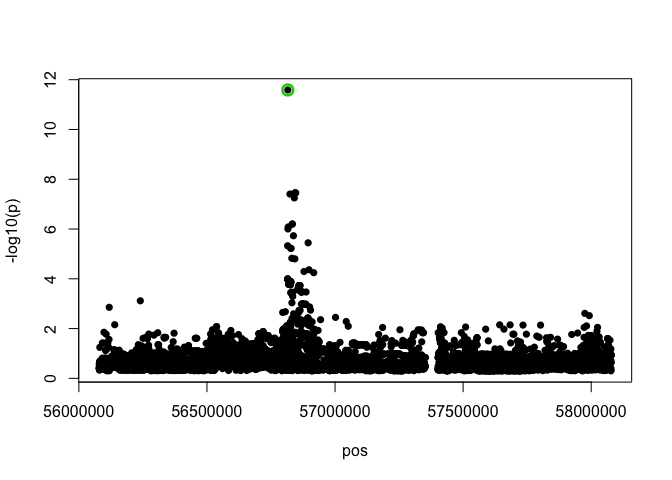
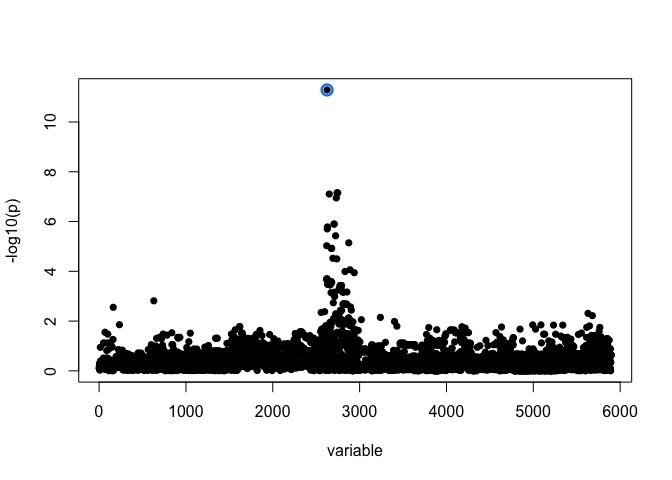
Update fine mapping example

diff --git a/fine_mapping/CEDAR_finemapping_example.md b/fine_mapping/CEDAR_finemapping_example.md
@@ -26,8 +26,7 @@ se
 ## assays(1): counts
 ## rownames(33080): ILMN_1343291 ILMN_1343295 ... ILMN_3311180
 ##   ILMN_3311190
-## rowData names(12): phenotype_id quant_id ... gene_version
-##   phenotype_pos
+## rowData names(12): phenotype_id quant_id ... gene_version phenotype_pos
 ## colnames(2337): CD8IPC010 CD8IPC011 ... CD19IPC066 CD19IPC154
 ## colData names(21): sample_id genotype_id ... smoker included
 ```
@@ -73,8 +72,7 @@ filtered_se
 ## assays(1): counts
 ## rownames(33080): ILMN_1343291 ILMN_1343295 ... ILMN_3311180
 ##   ILMN_3311190
-## rowData names(12): phenotype_id quant_id ... gene_version
-##   phenotype_pos
+## rowData names(12): phenotype_id quant_id ... gene_version phenotype_pos
 ## colnames(205): PLAIPC233 PLAIPC203 ... PLAIPC297 PLAIPC306
 ## colData names(21): sample_id genotype_id ... smoker included
 ```
@@ -87,15 +85,25 @@ Since CEDAR used Illumina HumanHT12_V4 microarray to measure gene expression (in
 ```r
 #Find probe IDs for the CD14 gene
 gene_metadata = rowData(filtered_se) %>% as.data.frame() %>% as.tbl() %>% dplyr::filter(gene_name == "ARHGEF3")
+```
+
+```
+## Warning: `as.tbl()` was deprecated in dplyr 1.0.0.
+## Please use `tibble::as_tibble()` instead.
+## This warning is displayed once every 8 hours.
+## Call `lifecycle::last_lifecycle_warnings()` to see where this warning was generated.
+```
+
+```r
 gene_metadata
 ```
 
 ```
-## # A tibble: 1 x 12
-##   phenotype_id quant_id group_id gene_id chromosome gene_start gene_end
-##   <chr>        <chr>    <chr>    <chr>   <chr>           <int>    <int>
-## 1 ILMN_1781010 ENSG000… ENSG000… ENSG00… 3            56727418 57079329
-## # … with 5 more variables: strand <int>, gene_name <chr>, gene_type <chr>,
+## # A tibble: 1 × 12
+##   phenotype_id quant_id   group_id gene_id chromosome gene_start gene_end strand
+##   <chr>        <chr>      <chr>    <chr>   <chr>           <int>    <int>  <int>
+## 1 ILMN_1781010 ENSG00000… ENSG000… ENSG00… 3            56727418 57079329     -1
+## # … with 4 more variables: gene_name <chr>, gene_type <chr>,
 ## #   gene_version <int>, phenotype_pos <int>
 ```
 Next we can extract this probe from the expression matrix
@@ -156,18 +164,18 @@ standard_genotypes[1:5,1:5]
 ```
 
 ```
-##        chr3_56079386_A_G chr3_56079528_G_A chr3_56079899_T_C
-## IPC233        -0.6097561        -0.6097561       -0.04390244
-## IPC203         0.3902439         0.3902439       -0.04390244
-## IPC204         0.3902439         0.3902439       -0.04390244
-## IPC093         0.3902439         0.3902439       -0.04390244
-## IPC120         0.3902439         0.3902439       -0.04390244
-##        chr3_56079903_A_G chr3_56079938_C_T
-## IPC233        -0.6097561        0.02439024
-## IPC203         0.3902439        0.02439024
-## IPC204         0.3902439        0.02439024
-## IPC093         0.3902439        0.02439024
-## IPC120         0.3902439        0.02439024
+##        chr3_56079386_A_G chr3_56079528_G_A chr3_56079899_T_C chr3_56079903_A_G
+## IPC233        -0.6097561        -0.6097561       -0.04390244        -0.6097561
+## IPC203         0.3902439         0.3902439       -0.04390244         0.3902439
+## IPC204         0.3902439         0.3902439       -0.04390244         0.3902439
+## IPC093         0.3902439         0.3902439       -0.04390244         0.3902439
+## IPC120         0.3902439         0.3902439       -0.04390244         0.3902439
+##        chr3_56079938_C_T
+## IPC233        0.02439024
+## IPC203        0.02439024
+## IPC204        0.02439024
+## IPC093        0.02439024
+## IPC120        0.02439024
 ```
 
 ## Perform finemapping 
@@ -183,13 +191,17 @@ fitted <- susieR::susie(standard_genotypes, expression_vector,
 ```
 
 ```
+## For an X with many columns, please consider installing  the Rfast package for more efficient credible set (CS)  calculations.
+```
+
+```
 ## [1] "objective:-155.426857168706"
-## [1] "objective:-153.338704356757"
-## [1] "objective:-153.29546961216"
-## [1] "objective:-153.290121105304"
-## [1] "objective:-153.288072517923"
-## [1] "objective:-153.28787810878"
-## [1] "objective:-153.287787803902"
+## [1] "objective:-153.338704356151"
+## [1] "objective:-153.295469612555"
+## [1] "objective:-153.290121105067"
+## [1] "objective:-153.288072517851"
+## [1] "objective:-153.287878108744"
+## [1] "objective:-153.287787803927"
 ```
 
 ```r
@@ -229,7 +241,7 @@ Visualise fine mapping results on top of -log10 p-values z-scores from univariat
 
 
 ```r
-susieR::susie_plot(fitted, y = "z", pos = pos_tbl$pos)
+susieR::susie_plot(fitted, y = "z")
 ```
 
 ![](CEDAR_finemapping_example_files/figure-html/unnamed-chunk-14-1.png)<!-- -->
@@ -238,7 +250,7 @@ Visualise posterior inclusion probability (PIP) for each variant directly
 
 
 ```r
-susieR::susie_plot(fitted, y = "PIP", pos = pos_tbl$pos)
+susieR::susie_plot(fitted, y = "PIP")
 ```
 
 ![](CEDAR_finemapping_example_files/figure-html/unnamed-chunk-15-1.png)<!-- -->
